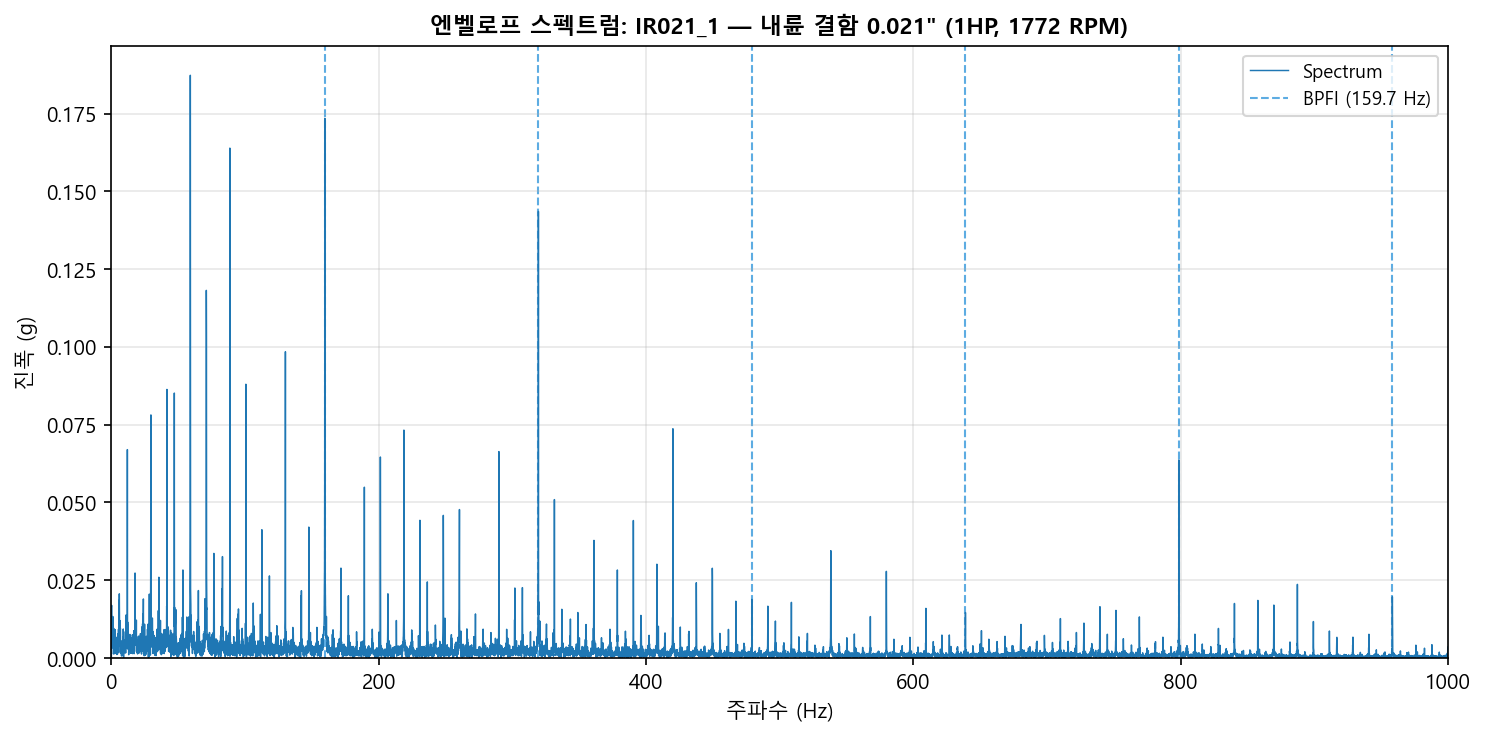
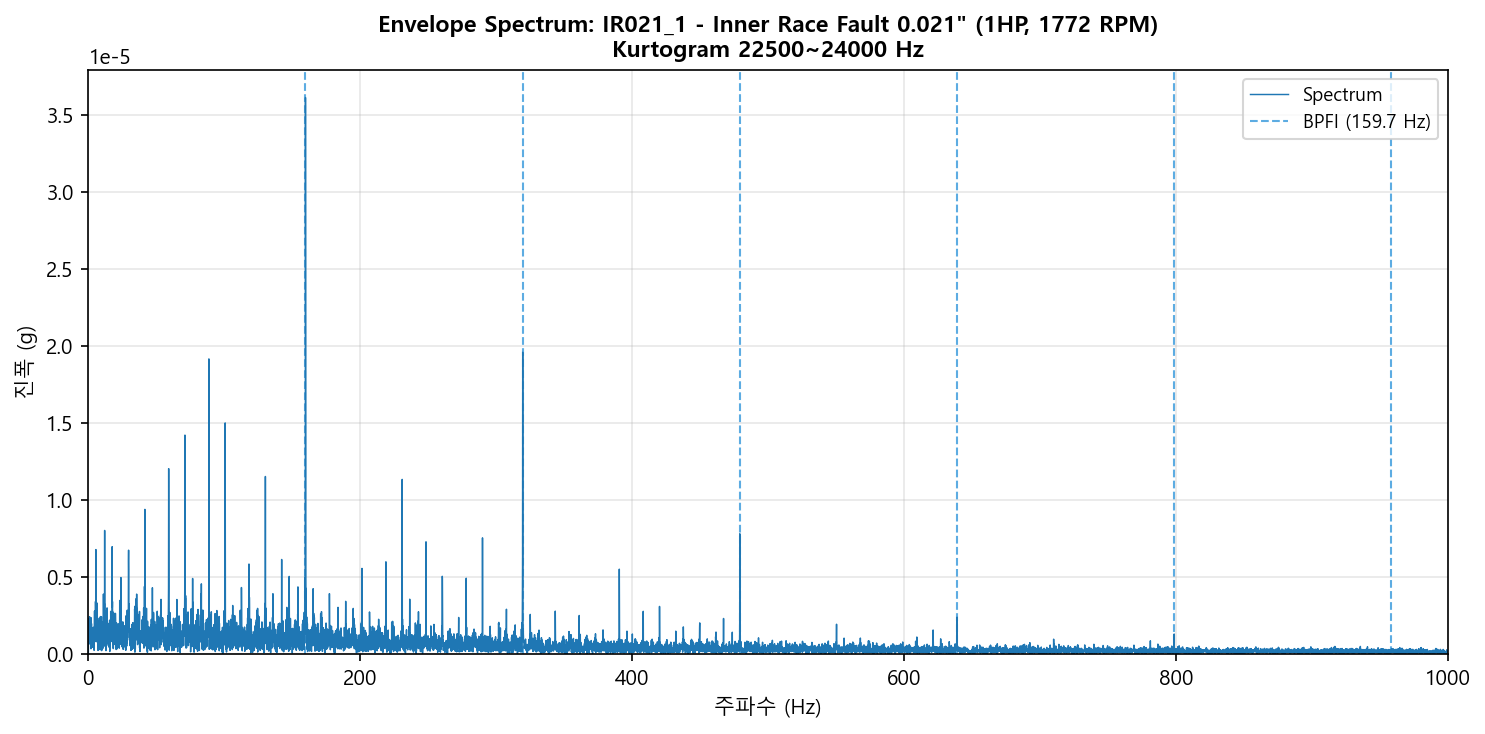
feat: 1HP, 0.021 inch kurtogram 추가

diff --git a/main.py b/main.py
@@ -7,13 +7,16 @@ BPFO/BPFI/BSF/FTF가 실제로 관측되는지 검증한다.
 
 실행 방법:
     python main.py
+    python main.py --base-kurtogram-envelope  # 48 kHz / 1 HP 결과만 생성
 """
+
+import argparse
 
 import matplotlib.pyplot as plt
 
 from config import BASE_KEYS, PAPER_KEYS
 from data_loader import load_all_datasets, print_dataset_summary
-from signal_analysis import print_defect_frequencies
+from signal_analysis import compute_kurtogram, print_defect_frequencies
 from visualization import (
     plot_analysis,
     plot_comparison,
@@ -86,6 +89,27 @@ def run_kurtograms():
         plt.close("all")
 
 
+def run_base_kurtogram_envelopes(all_data: dict | None = None) -> None:
+    """48 kHz / 1 HP 그룹의 Kurtogram과 선택 대역 엔벨로프를 저장한다."""
+    if all_data is None:
+        all_data = load_all_datasets(BASE_KEYS)
+
+    print("\n" + "=" * 60)
+    print("  48 kHz / 1 HP / 0.021\" Kurtogram + 엔벨로프 분석")
+    print("  정상 기준: Normal_1 (48 kHz / 1 HP)")
+    print("=" * 60)
+
+    for key in BASE_KEYS:
+        data = all_data[key]
+        print(f"\n  처리 중: {key}")
+        result = compute_kurtogram(data["signal"], data["fs"])
+        best = result["best"]
+        band = (best["low"], best["high"])
+        plot_kurtogram(data, result=result, save=True)
+        plot_paper_envelope_spectrum(data, band=band, save=True)
+        plt.close("all")
+
+
 def run_shaft_removal_comparison(all_data: dict):
     """
     48kHz / 0.021" 데이터에 축 동기 성분 제거를 적용한 결과를 생성한다.
@@ -102,9 +126,6 @@ def run_shaft_removal_comparison(all_data: dict):
         data = all_data[key]
         freq_name = "BPFO" if data["info"]["fault_type"] == "Outer Race" else "BPFI"
         print(f"\n  처리 중: {key} ({freq_name})")
-        plot_paper_envelope_spectrum(
-            data, freq_names=[freq_name], remove_shaft_orders=False, save=True
-        )
         plot_paper_envelope_spectrum(
             data, freq_names=[freq_name], remove_shaft_orders=True, save=True
         )
@@ -243,6 +264,7 @@ def main():
     # ==================================================================
     # 논문 Fig.5~8 재현 + 축 동기 성분 제거 비교
     # ==================================================================
+    run_base_kurtogram_envelopes(all_data)
     run_paper_reproduction()
     run_kurtograms()
     run_shaft_removal_comparison(all_data)
@@ -256,9 +278,11 @@ def main():
     n_baseline = len(all_data) + len(fault_keys) + 1
     n_paper = len(PAPER_FIGURES)
     n_kurtogram = len(PAPER_KEYS)
-    n_shaft_removal = 4  # OR021@6_1 / IR021_1 × (제거 전, 제거 후)
+    n_base_kurtogram_envelope = 2 * len(BASE_KEYS)
+    n_shaft_removal = 2  # OR021@6_1 / IR021_1 제거 후
     n_total = (n_baseline + n_m1 + n_m2 + n_m1_vs_m2
-               + n_paper + n_kurtogram + n_shaft_removal)
+               + n_paper + n_kurtogram + n_base_kurtogram_envelope
+               + n_shaft_removal)
 
     print("\n" + "=" * 60)
     print("  분석 완료!")
@@ -274,6 +298,8 @@ def main():
     print("\n  === 논문 Fig.5~8 재현 (12kHz, 0.007\", 0HP) ===")
     print(f"    - 논문 대응 그림        : {n_paper}개")
     print(f"    - Kurtogram             : {n_kurtogram}개")
+    print("\n  === 48kHz, 0.021\", 1HP (정상 기준 포함) ===")
+    print(f"    - Kurtogram + 엔벨로프 : {n_base_kurtogram_envelope}개")
     print(f"    - 축 동기 성분 제거 비교: {n_shaft_removal}개")
     print(f"\n  총 이미지 파일            : {n_total}개")
     print("\n  결과 저장 위치: results/")
@@ -281,4 +307,13 @@ def main():
 
 
 if __name__ == "__main__":
-    main()
+    parser = argparse.ArgumentParser(description="CWRU 베어링 결함 주파수 분석")
+    parser.add_argument(
+        "--base-kurtogram-envelope", action="store_true",
+        help="48 kHz / 1 HP / 0.021 inch 그룹의 Kurtogram과 엔벨로프만 생성",
+    )
+    args = parser.parse_args()
+    if args.base_kurtogram_envelope:
+        run_base_kurtogram_envelopes()
+    else:
+        main()

diff --git a/visualization.py b/visualization.py
@@ -361,7 +361,11 @@ def _english_fault_label(info: dict) -> str:
     return f"{label} ({info['load_hp']} HP, {info['rpm']} RPM)"
 
 
-def plot_kurtogram(data: dict, save: bool = True) -> plt.Figure:
+def plot_kurtogram(
+    data: dict,
+    save: bool = True,
+    result: dict | None = None,
+) -> plt.Figure:
     """
     한 데이터셋의 Kurtogram을 그린다.
 
@@ -375,12 +379,15 @@ def plot_kurtogram(data: dict, save: bool = True) -> plt.Figure:
         data_loader.load_mat_file()의 반환값
     save : bool
         True이면 results/ 디렉토리에 이미지 저장
+    result : dict | None
+        미리 계산한 compute_kurtogram 결과. None이면 여기서 계산한다.
 
     Returns
     -------
     matplotlib.figure.Figure
     """
-    result = compute_kurtogram(data["signal"], data["fs"])
+    if result is None:
+        result = compute_kurtogram(data["signal"], data["fs"])
     rows = result["rows"]
     best = result["best"]
     nyquist = data["fs"] / 2.0
@@ -992,6 +999,7 @@ def plot_paper_envelope_spectrum(
     remove_shaft_orders: bool = False,
     refine_markers: bool = True,
     save: bool = True,
+    band: tuple[float, float] | None = None,
 ) -> plt.Figure:
     """
     논문 Fig.5~8 형식의 엔벨로프 스펙트럼 단일 플롯을 생성한다.
@@ -1020,6 +1028,8 @@ def plot_paper_envelope_spectrum(
         (스냅할 실제 피크가 없으므로) 적용하지 않는다.
     save : bool
         True이면 results/ 디렉토리에 이미지 저장
+    band : tuple[float, float] | None
+        미리 계산한 Kurtogram 선택 대역. None이면 여기서 계산한다.
 
     Returns
     -------
@@ -1043,7 +1053,9 @@ def plot_paper_envelope_spectrum(
         )
         band = None
     else:
-        low, high = envelope_band_from_kurtogram(signal, fs)
+        if band is None:
+            band = envelope_band_from_kurtogram(signal, fs)
+        low, high = band
         env_freqs, env_mag, _ = compute_paper_envelope_spectrum(
             signal, fs, band=(low, high)
         )
